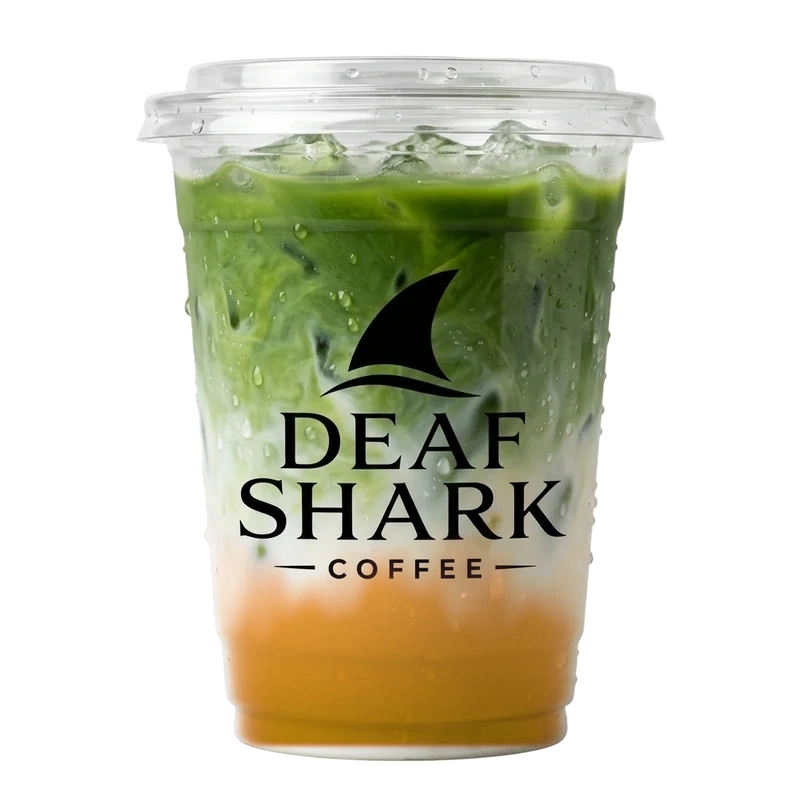
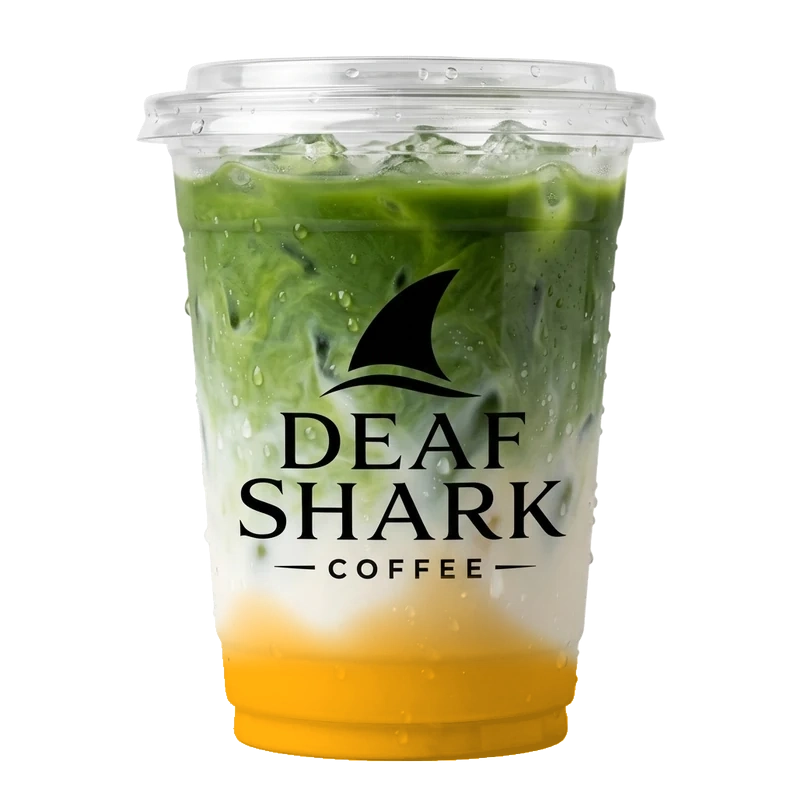
Fixing for cloudflare demo again!!

Changed region(s): [[0.25, 0.6562, 0.7188, 0.9688]]

diff --git a/app/storefront.tsx b/app/storefront.tsx
@@ -69,8 +69,7 @@ const priceLabel = (product: Product) => {
     ...(product.sizing?.iced ?? []),
   ].map((entry) => entry.price);
   const lowest = prices.length ? Math.min(...prices) : product.price;
-  const varies = prices.length > 1 && Math.max(...prices) !== lowest;
-  return varies ? `from ${money(lowest)}` : money(lowest);
+  return money(lowest);
 };
 
 const CUP_PHOTOS = { hot: "/cup-hot.png", iced: "/cup-cold.png" } as const;

diff --git a/app/globals.css b/app/globals.css
@@ -872,7 +872,8 @@ h1, h2, h3, p { margin-top: 0; }
   position: relative;
   z-index: 25;
   padding: clamp(48px, 5vw, 72px) max(4vw, calc((100vw - 1440px) / 2)) 48px;
-  background: var(--paper);
+  /* A touch creamier than --paper so the white product card reads as a card. */
+  background: #faf2e4;
 }
 .order-section:not(.standalone-order) {
   margin-top: -65vh;

diff --git a/craft_real_bleeding.py b/craft_real_bleeding.py
@@ -1,0 +1,104 @@
+import numpy as np
+from PIL import Image, ImageFilter
+
+base = Image.open('public/drink-matcha-latte.webp').convert('RGBA')
+arr = np.array(base).astype(float)
+h, w, _ = arr.shape
+alpha = base.getchannel('A')
+alpha_arr = np.array(alpha).astype(float) / 255.0
+
+y_grid, x_grid = np.indices((h, w))
+y_norm = y_grid / float(h)
+x_norm = x_grid / float(w)
+
+inside_cup = (alpha_arr > 0.5)
+
+# The second ridge line from the bottom is precisely at y = 0.835
+# Generate multi-octave fluid marbling noise
+def generate_marbling(seed_offset=0.0):
+    np.random.seed(int(seed_offset * 100))
+    t1 = np.sin(x_norm * 8.0 + seed_offset) * 0.04
+    t2 = np.cos(x_norm * 16.0 + seed_offset * 2.1) * 0.025
+    t3 = np.sin(x_norm * 28.0 + y_norm * 18.0 + seed_offset * 3.7) * 0.018
+    t4 = np.cos(x_norm * 45.0 - y_norm * 35.0) * 0.012
+    return t1 + t2 + t3 + t4
+
+# 1. Strawberry Matcha
+turb_sb = generate_marbling(1.4)
+# Solid up to ridge line at y = 0.835
+ridge_y = 0.835
+# Bleeding plumes rising from the ridge up into y = 0.70 - 0.78
+plume1 = np.exp(-((x_norm - 0.42) ** 2) / 0.007) * 0.11
+plume2 = np.exp(-((x_norm - 0.65) ** 2) / 0.005) * 0.08
+plume3 = np.exp(-((x_norm - 0.28) ** 2) / 0.008) * 0.06
+
+bleed_height_sb = ridge_y - (plume1 + plume2 + plume3 + turb_sb)
+
+# Create multi-layer soft bleeding density
+# Below ridge: solid (1.0)
+# Above ridge up to bleed_height: soft fluid gradient
+density_sb = np.zeros_like(y_norm)
+# Solid below ridge
+density_sb[y_norm >= ridge_y] = 1.0
+# Bleeding zone between bleed_height and ridge
+in_bleed = (y_norm < ridge_y) & (y_norm >= bleed_height_sb)
+density_sb[in_bleed] = (y_norm[in_bleed] - bleed_height_sb[in_bleed]) / np.maximum(ridge_y - bleed_height_sb[in_bleed], 0.001)
+
+# Smooth blur for liquid diffusion
+density_img = Image.fromarray((density_sb * 255).astype(np.uint8))
+density_img = density_img.filter(ImageFilter.GaussianBlur(radius=5))
+density_sb_smooth = np.array(density_img).astype(float) / 255.0 * inside_cup
+
+# Strawberry color
+sb_r = 218.0
+sb_g = 22.0
+sb_b = 58.0
+
+milk_lum = (arr[:, :, 0] + arr[:, :, 1] + arr[:, :, 2]) / (3.0 * 255.0)
+shade = np.clip(milk_lum * 1.12, 0.65, 1.05)
+
+sb_out = arr.copy()
+for c, col in enumerate([sb_r, sb_g, sb_b]):
+    sb_out[:, :, c] = arr[:, :, c] * (1.0 - density_sb_smooth) + (col * shade) * density_sb_smooth
+
+logo_mask = (arr[:, :, 0] < 45) & (arr[:, :, 1] < 45) & (arr[:, :, 2] < 45) & (y_norm > 0.32) & (y_norm < 0.72) & (x_norm > 0.28) & (x_norm < 0.72)
+for c in range(3):
+    sb_out[logo_mask, c] = arr[logo_mask, c]
+
+sb_img = Image.fromarray(np.clip(sb_out, 0, 255).astype(np.uint8), mode='RGBA')
+sb_img.putalpha(alpha)
+sb_img.save('public/drink-strawberry-matcha.webp', 'WEBP', quality=98)
+print("Saved diffuse bleeding Strawberry Matcha at 2nd ridge!")
+
+# 2. Mango Matcha (distinct plume positions and marbling)
+turb_mg = generate_marbling(4.8)
+plume_mg1 = np.exp(-((x_norm - 0.58) ** 2) / 0.009) * 0.12
+plume_mg2 = np.exp(-((x_norm - 0.35) ** 2) / 0.006) * 0.09
+plume_mg3 = np.exp(-((x_norm - 0.72) ** 2) / 0.007) * 0.06
+
+bleed_height_mg = ridge_y - (plume_mg1 + plume_mg2 + plume_mg3 + turb_mg)
+
+density_mg = np.zeros_like(y_norm)
+density_mg[y_norm >= ridge_y] = 1.0
+in_bleed_mg = (y_norm < ridge_y) & (y_norm >= bleed_height_mg)
+density_mg[in_bleed_mg] = (y_norm[in_bleed_mg] - bleed_height_mg[in_bleed_mg]) / np.maximum(ridge_y - bleed_height_mg[in_bleed_mg], 0.001)
+
+density_mg_img = Image.fromarray((density_mg * 255).astype(np.uint8))
+density_mg_img = density_mg_img.filter(ImageFilter.GaussianBlur(radius=5))
+density_mg_smooth = np.array(density_mg_img).astype(float) / 255.0 * inside_cup
+
+mg_r = 248.0
+mg_g = 168.0
+mg_b = 14.0
+
+mg_out = arr.copy()
+for c, col in enumerate([mg_r, mg_g, mg_b]):
+    mg_out[:, :, c] = arr[:, :, c] * (1.0 - density_mg_smooth) + (col * shade) * density_mg_smooth
+
+for c in range(3):
+    mg_out[logo_mask, c] = arr[logo_mask, c]
+
+mg_img = Image.fromarray(np.clip(mg_out, 0, 255).astype(np.uint8), mode='RGBA')
+mg_img.putalpha(alpha)
+mg_img.save('public/drink-mango-matcha.webp', 'WEBP', quality=98)
+print("Saved diffuse bleeding Mango Matcha at 2nd ridge!")

diff --git a/craft_matcha_bleeding.py b/craft_matcha_bleeding.py
@@ -1,0 +1,91 @@
+import numpy as np
+from PIL import Image
+
+# Load matcha latte as master base
+base = Image.open('public/drink-matcha-latte.webp').convert('RGBA')
+arr = np.array(base).astype(float)
+h, w, _ = arr.shape
+
+alpha = base.getchannel('A')
+alpha_arr = np.array(alpha).astype(float) / 255.0
+
+y_grid, x_grid = np.indices((h, w))
+y_norm = y_grid / float(h)
+x_norm = x_grid / float(w)
+
+# Inside cup mask
+inside_cup = (alpha_arr > 0.5)
+
+# The second ridge line from the bottom is at y ~ 0.81
+# 1. Strawberry bleeding tendrils & marbling
+# Ridge base at 0.81, with multiple fluid plumes bleeding up into y = 0.68-0.75
+plume_sb1 = np.exp(-((x_norm - 0.38) ** 2) / 0.008) * 0.12
+plume_sb2 = np.exp(-((x_norm - 0.62) ** 2) / 0.006) * 0.09
+plume_sb3 = np.exp(-((x_norm - 0.48) ** 2) / 0.015) * 0.06
+wisps_sb = 0.025 * np.sin(x_norm * 25.0 + 1.0) * np.cos(y_norm * 30.0)
+bleed_sb_top = 0.815 - (plume_sb1 + plume_sb2 + plume_sb3 + wisps_sb)
+
+# Soft diffusion gradient
+bleed_sb_mask = np.clip((y_norm - bleed_sb_top) / 0.08, 0, 1.0)
+# Make base solid below y=0.815
+solid_sb_base = np.clip((y_norm - 0.815) / 0.02, 0, 1.0)
+sb_density = np.maximum(bleed_sb_mask, solid_sb_base) * inside_cup * (y_norm > 0.65).astype(float)
+
+# Organic turbulence in the milk-bleed interface
+noise_sb = np.sin(x_norm * 40.0) * np.sin(y_norm * 35.0) * 0.08
+sb_density = np.clip(sb_density + noise_sb * np.clip((0.85 - y_norm) / 0.2, 0, 1.0) * sb_density, 0, 1.0)
+
+# Realistic rich strawberry red coulis colors
+sb_r = 220.0
+sb_g = 25.0
+sb_b = 60.0
+
+milk_lum = (arr[:, :, 0] + arr[:, :, 1] + arr[:, :, 2]) / (3.0 * 255.0)
+shade = np.clip(milk_lum * 1.15, 0.65, 1.05)
+
+sb_out = arr.copy()
+sb_out[:, :, 0] = arr[:, :, 0] * (1.0 - sb_density) + (sb_r * shade) * sb_density
+sb_out[:, :, 1] = arr[:, :, 1] * (1.0 - sb_density) + (sb_g * shade) * sb_density
+sb_out[:, :, 2] = arr[:, :, 2] * (1.0 - sb_density) + (sb_b * shade) * sb_density
+
+# Black logo preservation
+logo_mask = (arr[:, :, 0] < 45) & (arr[:, :, 1] < 45) & (arr[:, :, 2] < 45) & (y_norm > 0.32) & (y_norm < 0.72) & (x_norm > 0.28) & (x_norm < 0.72)
+for c in range(3):
+    sb_out[logo_mask, c] = arr[logo_mask, c]
+
+sb_img = Image.fromarray(np.clip(sb_out, 0, 255).astype(np.uint8), mode='RGBA')
+sb_img.putalpha(alpha)
+sb_img.save('public/drink-strawberry-matcha.webp', 'WEBP', quality=98)
+print("Saved authentic bleeding Strawberry Matcha at 2nd ridge!")
+
+# 2. Mango bleeding tendrils & marbling (distinct swirl dynamics)
+plume_mg1 = np.exp(-((x_norm - 0.55) ** 2) / 0.010) * 0.13
+plume_mg2 = np.exp(-((x_norm - 0.32) ** 2) / 0.007) * 0.08
+plume_mg3 = np.exp(-((x_norm - 0.70) ** 2) / 0.009) * 0.07
+wisps_mg = 0.028 * np.cos(x_norm * 22.0 + 2.5) * np.sin(y_norm * 28.0)
+bleed_mg_top = 0.815 - (plume_mg1 + plume_mg2 + plume_mg3 + wisps_mg)
+
+bleed_mg_mask = np.clip((y_norm - bleed_mg_top) / 0.08, 0, 1.0)
+solid_mg_base = np.clip((y_norm - 0.815) / 0.02, 0, 1.0)
+mg_density = np.maximum(bleed_mg_mask, solid_mg_base) * inside_cup * (y_norm > 0.65).astype(float)
+
+noise_mg = np.cos(x_norm * 35.0) * np.cos(y_norm * 30.0) * 0.08
+mg_density = np.clip(mg_density + noise_mg * np.clip((0.85 - y_norm) / 0.2, 0, 1.0) * mg_density, 0, 1.0)
+
+# Golden mango yellow colors #F59E0B / #EAB308
+mg_r = 248.0
+mg_g = 170.0
+mg_b = 16.0
+
+mg_out = arr.copy()
+mg_out[:, :, 0] = arr[:, :, 0] * (1.0 - mg_density) + (mg_r * shade) * mg_density
+mg_out[:, :, 1] = arr[:, :, 1] * (1.0 - mg_density) + (mg_g * shade) * mg_density
+mg_out[:, :, 2] = arr[:, :, 2] * (1.0 - mg_density) + (mg_b * shade) * mg_density
+
+for c in range(3):
+    mg_out[logo_mask, c] = arr[logo_mask, c]
+
+mg_img = Image.fromarray(np.clip(mg_out, 0, 255).astype(np.uint8), mode='RGBA')
+mg_img.putalpha(alpha)
+mg_img.save('public/drink-mango-matcha.webp', 'WEBP', quality=98)
+print("Saved authentic bleeding Mango Matcha at 2nd ridge!")

diff --git a/craft_matcha_drinks.py b/craft_matcha_drinks.py
@@ -1,0 +1,72 @@
+import numpy as np
+from PIL import Image
+
+# Load matcha latte as the master base (green matcha top + pristine white milk bottom)
+base = Image.open('public/drink-matcha-latte.webp').convert('RGBA')
+arr = np.array(base).astype(float)
+h, w, _ = arr.shape
+
+alpha = base.getchannel('A')
+alpha_arr = np.array(alpha).astype(float) / 255.0
+
+y_grid, x_grid = np.indices((h, w))
+y_norm = y_grid / float(h)
+x_norm = x_grid / float(w)
+
+# Define inside cup mask in the lower region (where alpha > 0.5)
+inside_cup = alpha_arr > 0.5
+
+# 1. Strawberry Matcha
+# Layer starts around y = 0.70 and extends down through 0.95 (bottom base)
+# Create organic wavy swirl boundary
+wave_sb = 0.70 + 0.035 * np.sin(x_norm * 9.0) + 0.02 * np.cos(x_norm * 17.0 + 1.2) - 0.015 * np.sin(x_norm * 4.0)
+dist_sb = (y_norm - wave_sb) / 0.06
+puree_sb_mask = np.clip(dist_sb, 0, 1.0) * inside_cup * (y_norm > 0.62).astype(float)
+
+# Strawberry red puree colors: deep rich ruby red #D11A3E to #B91C1C
+sb_r = 215.0 - (y_norm - 0.7) * 35.0
+sb_g = 28.0 + (y_norm - 0.7) * 15.0
+sb_b = 62.0 + (y_norm - 0.7) * 20.0
+
+# Add subtle shading based on the original milk texture so shadows and glass reflections remain intact
+milk_lum = (arr[:, :, 0] + arr[:, :, 1] + arr[:, :, 2]) / (3.0 * 255.0)
+shade = np.clip(milk_lum * 1.15, 0.7, 1.1)
+
+sb_out = arr.copy()
+sb_out[:, :, 0] = arr[:, :, 0] * (1.0 - puree_sb_mask) + (sb_r * shade) * puree_sb_mask
+sb_out[:, :, 1] = arr[:, :, 1] * (1.0 - puree_sb_mask) + (sb_g * shade) * puree_sb_mask
+sb_out[:, :, 2] = arr[:, :, 2] * (1.0 - puree_sb_mask) + (sb_b * shade) * puree_sb_mask
+
+# Preserve black logo
+logo_mask = (arr[:, :, 0] < 45) & (arr[:, :, 1] < 45) & (arr[:, :, 2] < 45) & (y_norm > 0.32) & (y_norm < 0.72) & (x_norm > 0.28) & (x_norm < 0.72)
+for c in range(3):
+    sb_out[logo_mask, c] = arr[logo_mask, c]
+
+sb_img = Image.fromarray(np.clip(sb_out, 0, 255).astype(np.uint8), mode='RGBA')
+sb_img.putalpha(alpha)
+sb_img.save('public/drink-strawberry-matcha.webp', 'WEBP', quality=98)
+print("Saved perfect Strawberry Matcha!")
+
+# 2. Mango Matcha
+# Layer starts around y = 0.72 with a distinct organic swirl wave (different from strawberry)
+wave_mg = 0.72 + 0.04 * np.cos(x_norm * 8.0 + 0.5) - 0.025 * np.sin(x_norm * 14.0 + 2.0) + 0.018 * np.sin(x_norm * 3.5)
+dist_mg = (y_norm - wave_mg) / 0.06
+puree_mg_mask = np.clip(dist_mg, 0, 1.0) * inside_cup * (y_norm > 0.64).astype(float)
+
+# Golden mango yellow-orange colors: #F59E0B / #EAB308 / #FBBF24
+mg_r = 245.0 - (y_norm - 0.7) * 20.0
+mg_g = 168.0 - (y_norm - 0.7) * 25.0
+mg_b = 18.0 + (y_norm - 0.7) * 10.0
+
+mg_out = arr.copy()
+mg_out[:, :, 0] = arr[:, :, 0] * (1.0 - puree_mg_mask) + (mg_r * shade) * puree_mg_mask
+mg_out[:, :, 1] = arr[:, :, 1] * (1.0 - puree_mg_mask) + (mg_g * shade) * puree_mg_mask
+mg_out[:, :, 2] = arr[:, :, 2] * (1.0 - puree_mg_mask) + (mg_b * shade) * puree_mg_mask
+
+for c in range(3):
+    mg_out[logo_mask, c] = arr[logo_mask, c]
+
+mg_img = Image.fromarray(np.clip(mg_out, 0, 255).astype(np.uint8), mode='RGBA')
+mg_img.putalpha(alpha)
+mg_img.save('public/drink-mango-matcha.webp', 'WEBP', quality=98)
+print("Saved perfect Mango Matcha with distinct natural swirl!")
